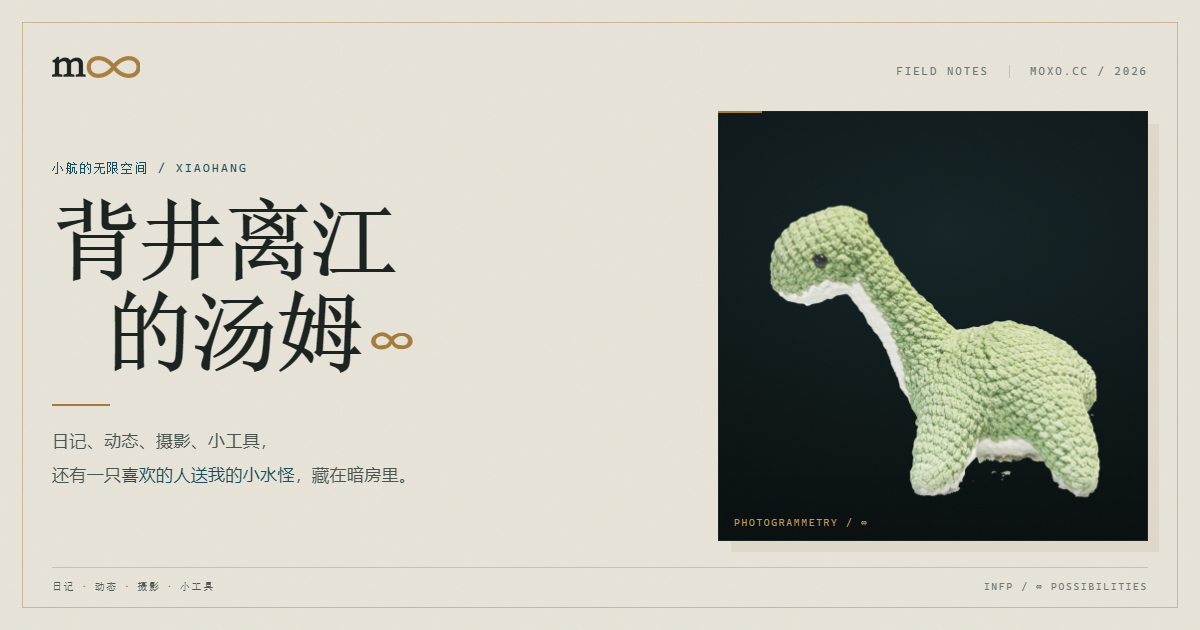
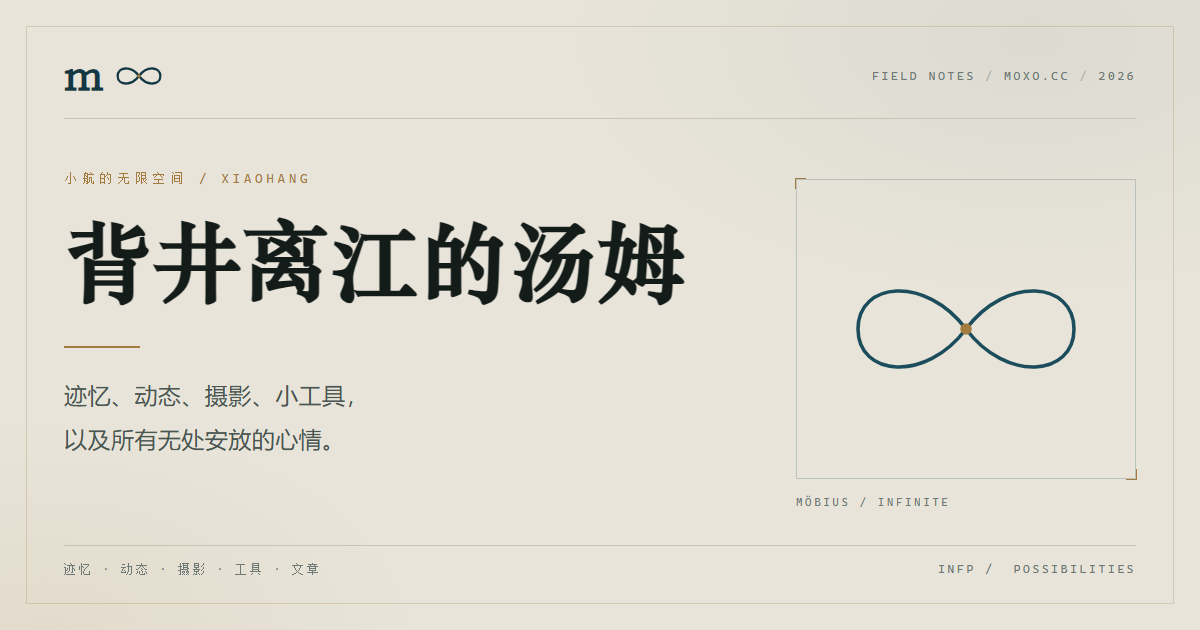
feat(friends): 接入好友头像，五位友人换成真实图标 chore(og): 重做社交分享图，去掉小水怪、改用 Möbius 线稿

diff --git a/src/content/friends/lanxige.club.md b/src/content/friends/lanxige.club.md
@@ -1,6 +1,7 @@
 ---
 name: 蓝溪阁
 url: https://blog.lanxige.club/
+avatar: /friends/lanxige.png
 desc: 泥崽分享知识的小水坑，是我大概在20年遇到到小伙伴，有时我会找他聊一聊
 tags:
   - 技术

diff --git a/src/content/friends/Tumeng.md b/src/content/friends/Tumeng.md
@@ -1,6 +1,7 @@
 ---
 name: Tumeng.
 url: https://null
+avatar: /friends/tumeng.jpg
 desc: 一个22世纪知名音乐家、作曲家、著名摇滚乐手、著名吉他手
 tags:
   - 音乐

diff --git a/src/content/friends/quhe.md b/src/content/friends/quhe.md
@@ -1,6 +1,7 @@
 ---
 name: Quhe
 url: https://quhe.top
+avatar: /friends/quhe.jpg
 desc: 2021-2026这段人生中的一个过客，至少他本人是这么形容的。
 tags:
   - 逗比

diff --git a/src/content/friends/dawn.md b/src/content/friends/dawn.md
@@ -1,6 +1,7 @@
 ---
 name: 她
 url: https://Dawn
+avatar: /friends/ta.jpg
 desc: 她对待生活的方式，让我重新审视了对待自己生活的态度。
 tags:
   - 光

diff --git a/src/content/friends/nicke.md b/src/content/friends/nicke.md
@@ -1,6 +1,7 @@
 ---
 name: Lucky_Nicke
 url: https://lanxige.club
+avatar: /friends/nicke.jpg
 desc: 蓝溪阁的创始人，为此我占了两个板块。
 tags:
   - 友人A
